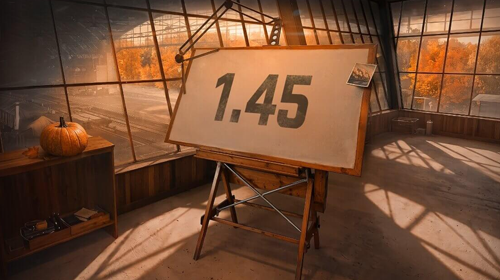
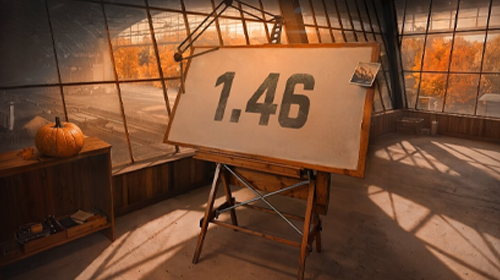
hell

diff --git a/_posts/2026/2026-11-13-operation-hell.md b/_posts/2026/2026-11-13-operation-hell.md
@@ -1,0 +1,45 @@
+---
+title: Операция «Пекло»
+date: 2026-11-13 20:00 +0300
+tags: [important]
+image: "/assets/img/news/thumbnail/hell_ev.png"
+image_small: "/assets/img/news/image_small/hell_ev.png"
+category: events
+---
+
+Новые враги - старые мотивы. Встречайте операцию «Пекло»!
+{: style="display: none" }
+
+![Placeholder]({{ '/assets/img/news/header/hell_ev.png' | relative_url }})
+
+Танкисты!
+
+Потусторонняя сила вырывается наружу, на сей раз вам предстоит бросить вызов Ратте во владениях Левиафана, [правила вам уже знакомы](https://tanki.su/ru/razlom-2026/), поэтому мы пройдемся по основным изменениям.
+
+{% include yt-embed.html id="kq00lQW9wMw" %}
+
+### Карта
+
+Освещение точь-в-точь было восстановленно из знакомого многим режима «Вторжение Левиафана», как на карте, так и в ангаре.
+
+![hell](/assets/img/news/screens/maps/hell_ev.jpg){: width="100%" }
+
+### Саундтрек
+
+Куда же без запоминающегося саундтрека, с нотками ностальгии по былым временам, «Левиафану» и мощностью в бою? Именно такой трек и написал для нашего события уже знакомый Вам [cherempet](https://www.youtube.com/@chrmpt). 
+
+Каждый трек напомнит кому-то о чем-то своем. О Мирном-13, о Вторжении Левиафана и о рождении легенды.
+
+{% include yt-embed.html id="TTp6TGQf_zk" %}
+
+Также вместе с саундтреком в модификации изменилась и озвучка на соответствующую.
+
+### Где скачать?
+
+Установить модификацию можно в основном установщике модов «WoT это Классика!».
+
+---
+
+Удачи на полях потусторонних сражений, танкисты!
+
+И увидимся уже в декабре. ;p
